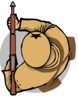
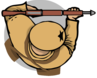
Main hero mechanic edited.

diff --git a/main.py b/main.py
@@ -71,7 +71,7 @@ class Weapon:
         self.spr = pygame.sprite.Sprite()
         self.spr.image = self.img
         self.spr.rect = self.spr.image.get_rect()
-        self.spr.rect.x, self.spr.rect.y = (10, screen.get_height() - 100)
+        self.spr.rect.x, self.spr.rect.y = (10, height - 100)
         im = pygame.transform.scale(self.img, (self.img.get_width() // 5, self.img.get_height() // 5))
         self.sm_spr = pygame.sprite.Sprite()
         self.sm_spr.image = im
@@ -111,62 +111,26 @@ class Bullet(pygame.sprite.Sprite):
             self.kill()
 
 
-class MainHero(pygame.sprite.Sprite):
-    def __init__(self, pos):
+class Character(pygame.sprite.Sprite):
+    def __init__(self, pos, type_ch):
         super().__init__()
-        self.weapons = [Weapon('simple pistol', 10, 400, loadings.load_image('default_pistol.png'), 10),
-                        Weapon('AK-47', 10, 200, loadings.load_image('ak-47.png'), 20)]
-        self.slot_number = 0
-        self.pos = pos
-        self.side = 'right'
-        self.cur_frame = 0
-        self.frames = []
-        self.cut_sheet(loadings.load_image('main_hero_sp.png'))
-        self.moving = False
+        self.rect = pygame.Rect((pos[0], pos[1], 65, 65))
+        print(self.rect)
         all_sprites.add(self)
+        if type_ch == 'enemy':
+            enemies.add(self)
+            self.weapon = Weapon('simple pistol', 10, 400, loadings.load_image('default_pistol.png'), 10)
         self.mask = None
         self.hp = 100
-
-    def cut_sheet(self, sheet):
-        self.rect = pygame.Rect(0, 0, sheet.get_width() // 3,
-                                sheet.get_height())
-        for j in range(3):
-            frame_location = (self.rect.w * j, 0)
-            self.frames.append(sheet.subsurface(pygame.Rect(
-                frame_location, self.rect.size)))
-
-    def update_hero(self):
-        next_x, next_y = 0, 0
-        if pygame.key.get_pressed()[pygame.K_a]:
-            next_x -= 5
-            self.moving = True
-        if pygame.key.get_pressed()[pygame.K_d]:
-            next_x += 5
-            self.moving = True
-        if pygame.key.get_pressed()[pygame.K_w]:
-            next_y -= 5
-            self.moving = True
-        if pygame.key.get_pressed()[pygame.K_s]:
-            next_y += 5
-            self.moving = True
-        if self.moving:
-            self.cur_frame = (self.cur_frame + 1) % len(self.frames)
-        else:
-            self.cur_frame = 0
-        self.image = self.frames[self.cur_frame]
-        self.rotate_image(pygame.mouse.get_pos())
-        self.image = self.image.convert_alpha()
-        self.mask = pygame.mask.from_surface(self.image)
-        self.rect = self.rect.move(next_x, next_y)
-        if pygame.sprite.spritecollideany(self, obstacles, collided=collide_with_mask) is not None:
-            self.rect = self.rect.move(-next_x, -next_y)
-        self.moving = False
+        self.shooting = False
 
     def rotate_image(self, pos):
+        print(self.rect, 64)
         rel_x, rel_y = pos[0] - self.rect.x, pos[1] - self.rect.y
         angle = (180 / math.pi) * -math.atan2(rel_y, rel_x)
         self.image = pygame.transform.rotate(self.image, angle)
         self.rect = self.image.get_rect(center=self.rect.center)
+        print(self.rect, '================================')
 
     def shoot(self, go_to):
         delta_x = go_to[0] - self.rect.x
@@ -179,6 +143,44 @@ class MainHero(pygame.sprite.Sprite):
             hero_bullets.add(bullet)
 
 
+class MainHero(Character):
+    def __init__(self, pos):
+        super().__init__(pos, 'hero')
+        self.weapons = [Weapon('simple pistol', 10, 400, loadings.load_image('default_pistol.png'), 10),
+                        Weapon('AK-47', 10, 200, loadings.load_image('ak-47.png'), 20)]
+        self.slot_number = 0
+        self.image = loadings.load_image('good_stay_1.png')
+        print(self.rect, '=-=--=-=-=-==-=-------------')
+        self.rect = self.image.get_rect()
+        print(self.rect, '=-=--=-=-=-==-=-------------')
+        self.weapon_clock = pygame.time.Clock()
+
+    def update_hero(self):
+        if self.shooting:
+            if self.weapon_clock.tick() > 50:
+                print('===========')
+                self.shoot(pygame.mouse.get_pos())
+        next_x, next_y = 0, 0
+        if pygame.key.get_pressed()[pygame.K_a]:
+            next_x -= 5
+        if pygame.key.get_pressed()[pygame.K_d]:
+            next_x += 5
+        if pygame.key.get_pressed()[pygame.K_w]:
+            next_y -= 5
+        if pygame.key.get_pressed()[pygame.K_s]:
+            next_y += 5
+        if self.shooting:
+            self.image = loadings.load_image('good_shoote.png')
+        else:
+            self.image = loadings.load_image('good_stay_1.png')
+        self.rotate_image(pygame.mouse.get_pos())
+        self.image = self.image.convert_alpha()
+        self.mask = pygame.mask.from_surface(self.image)
+        self.rect = self.rect.move(next_x, next_y)
+        if pygame.sprite.spritecollideany(self, obstacles, collided=collide_with_mask) is not None:
+            self.rect = self.rect.move(-next_x, -next_y)
+
+
 class Game:
     def __init__(self, in_room, in_hero):
         self.room = in_room
@@ -186,6 +188,7 @@ class Game:
 
     def render(self):
         self.hero.update_hero()
+        print(self.hero.rect, '-=-=-=--')
         for bull in hero_bullets:
             bull.update()
         self.room.render()
@@ -198,8 +201,8 @@ class Game:
 
 def draw_hp(in_screen):
     # pygame.draw.rect(in_screen, pygame.Color(10, 0, 250, a=100), (0, 668, 1024, 100))
-    pygame.draw.rect(in_screen, (204, 0, 0), (300, 688, hero.hp * 2, 40))
-    pygame.draw.rect(in_screen, (204, 0, 0), (300, 688, 200, 40), 3)
+    pygame.draw.rect(in_screen, (204, 0, 0), (width // 4, height - 80, hero.hp * 2, 40))
+    pygame.draw.rect(in_screen, (204, 0, 0), (width // 4, height - 80, 200, 40), 3)
 
 
 class Camera:
@@ -208,14 +211,12 @@ class Camera:
         self.dy = 0
 
     def apply(self, obj):
+        if type(obj).__name__ == 'MainHero':
+            print(obj.rect)
         obj.rect.x += self.dx
         obj.rect.y += self.dy
 
     def update(self, target):
-        if target.rect.x < 64:
-            target.rect.x = 65
-        if target.rect.y < 64:
-            target.rect.y = 65
         l_u_cell = obstacles.sprites()[0]
         r_d_cell = obstacles.sprites()[115]
         if (l_u_cell.rect.x >= 0 and target.rect.x < width // 2) or \
@@ -241,10 +242,12 @@ if __name__ == '__main__':
     cells = pygame.sprite.Group()
     obstacles = pygame.sprite.Group()
     hero_bullets = pygame.sprite.Group()
+    enemy_bullets = pygame.sprite.Group()
+    enemies = pygame.sprite.Group()
     invent = pygame.sprite.Group()
     droped_weapon = []
     room = Room('f-r.txt')
-    hero = MainHero((0, 3 * room.tile_height))
+    hero = MainHero((room.tile_width + 1, room.tile_height + 1))
     game = Game(room, hero)
     pygame.display.flip()
     hero.weapons[hero.slot_number].draw()
@@ -254,10 +257,11 @@ if __name__ == '__main__':
         for ev in pygame.event.get():
             if ev.type == pygame.QUIT:
                 terminate()
-            elif ev.type == pygame.MOUSEBUTTONDOWN:
-                hero.shoot(pygame.mouse.get_pos())
-
-            if ev.type == pygame.KEYUP:
+            elif ev.type == pygame.MOUSEBUTTONDOWN and ev.button == 1:
+                hero.shooting = True
+            elif ev.type == pygame.MOUSEBUTTONUP and ev.button == 1:
+                hero.shooting = False
+            elif ev.type == pygame.KEYUP:
                 if ev.key == pygame.K_q:
                     invent.remove(hero.weapons[hero.slot_number].spr)
                     if hero.slot_number < len(hero.weapons) - 1:
@@ -265,7 +269,6 @@ if __name__ == '__main__':
                     else:
                         hero.slot_number = 0
                     hero.weapons[hero.slot_number].draw()
-                    print(hero.slot_number)
                 if ev.key == pygame.K_g:
                     if hero.weapons[hero.slot_number].name != 'simple pistol':
                         hero.weapons[hero.slot_number].drop()
